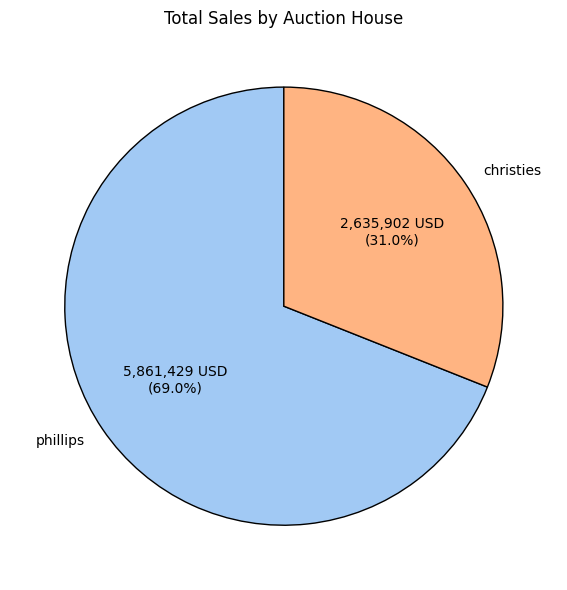
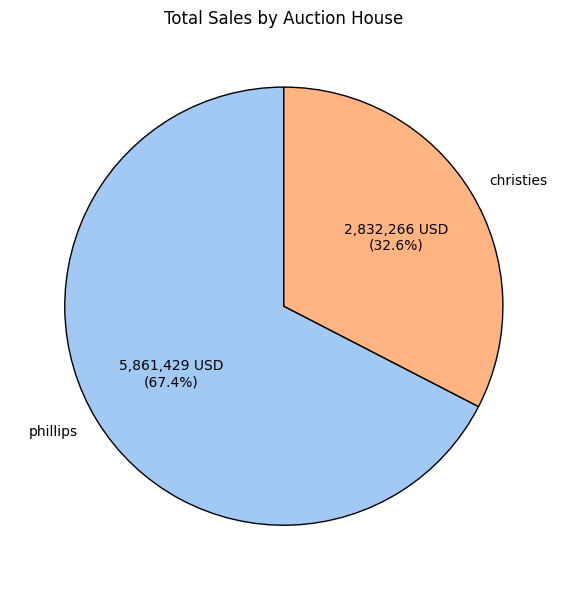
modified html

diff --git a/docs/index.html b/docs/index.html
@@ -49,7 +49,7 @@
                         <div class="vertical-bar"></div>
                         <div class="stat">
                             <h4>Total Sales</h4>
-                            <p>$8,497,330.82</p>
+                            <p>$8,693,694.26</p>
                         </div>
                         <div class="vertical-bar"></div>
                         <div class="stat">
@@ -67,7 +67,7 @@
             </div>
         
             <ul>
-                <li><strong>Strong Overall Sales:</strong> The auction season resulted in total sales of USD 8,497,330.82 across both Phillips and Christie's, with Phillips accounting for 69% of the total, while Christie's contributed 31%. This demonstrates strong demand from buyers, particularly for lots at Phillips.</li>
+                <li><strong>Strong Overall Sales:</strong> The auction season resulted in total sales of $8,693,694.25 across both Phillips and Christie's. This demonstrates strong demand from buyers.</li>
                 <li><strong>Impressive Performance Above Estimate:</strong> Out of the total lots sold, 155 were sold above their estimated prices, representing over 40.7% of all sales. This indicates robust demand for certain timepieces, as competitive bidding pushed prices higher than expected.</li>
                 <li><strong>Brand Leadership:</strong> Patek Philippe and Rolex were the leading brands, with Patek Philippe contributing the largest share of sales by brand, followed closely by Rolex.</li>
                 <li><strong>Case Material Trends:</strong> Watches made from stainless steel and 18K gold saw strong demand, while platinum and other precious metals also contributed significantly to the total sales.</li>
@@ -92,7 +92,7 @@
                 In addition, 40.7% of the lots sold above their estimates, suggesting strong demand and competitive bidding. Only 16% of the lots were sold below their estimate, reflecting a relatively small number of underperforming lots. 
                 Importantly, none of the lots went unsold, which signals a very successful auction with high buyer interest.<br><br>
 
-                Phillips outperformed Christie's, accounting for 69% of the total sales with $5.86 million, while Christie's contributed 31%, or $2.64 million. 
+                Phillips outperformed Christie's, accounting for 67.4% of the total sales with $5.86 million, while Christie's contributed 32.6%, or $2.83 million. 
                 This disparity in sales volume could suggest that Phillips either offered higher-value lots or attracted more competitive bidding. Both auction houses handled a large number of lots but Phillips clearly led in 
                 total revenue generated.<br><br>
 
@@ -180,7 +180,7 @@
                     <div class="brand-item">
                         <img src="images/Rolex-Emblem.png" alt="Rolex">
                         <h4>Rolex</h4>
-                        <strong>$1,621,770.1</strong>
+                        <strong>$1,818,133.5</strong>
                     </div>
                     <div class="brand-item">
                         <img src="images/Logo_Audemars_Piguet-2.jpg" alt="Rolex">
@@ -253,7 +253,7 @@
                         <td>21</td>
                         <td>40</td>
                         <td>14</td>
-                        <td>$1,621,770.06</td> 
+                        <td>$1,818,133.50</td> 
                         <td>$0.00</td> 
                         <td>$179,200.00</td>                      
                         <td>$19,730.13</td>                        
@@ -306,7 +306,7 @@
                     
                 <p style="margin-top: 10px;">
                     Overall, the top 5 luxury watch brands performance reveals a competitive and robust market dominated by established names. Patek Philippe leads in total sales with an impressive $2,298,463.90, 
-                    despite selling fewer lots (59) than Rolex (75), which comes in second with $1,621,770.06 in sales. This indicates Patek Philippe's higher average value per lot. 
+                    despite selling fewer lots (59) than Rolex (75), which comes in second with $1,818,133.5 in sales. This indicates Patek Philippe's higher average value per lot. 
                     Audemars Piguet secures the third position with $771,408.10 in sales from just 18 lots, showcasing its high-value pieces. F.P. Journe, while having the fewest lots sold (6), 
                     maintains a strong position with $353,613.61 in sales, boasting the highest average estimated price at $53,368.50. Cartier rounds out the top 5 with solid performance. 
                     Notably, all brands achieved a perfect 100% sale rate, indicating strong demand across the luxury watch segment. Patek Philippe and Rolex show balanced performance in terms of lots sold within, above, and 
